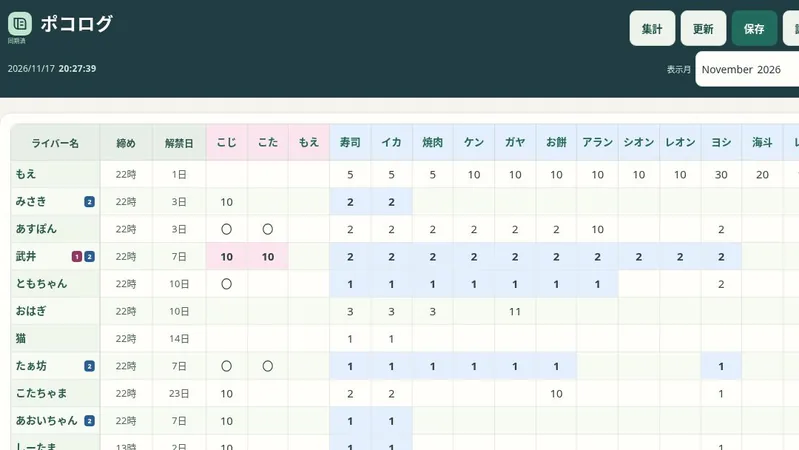
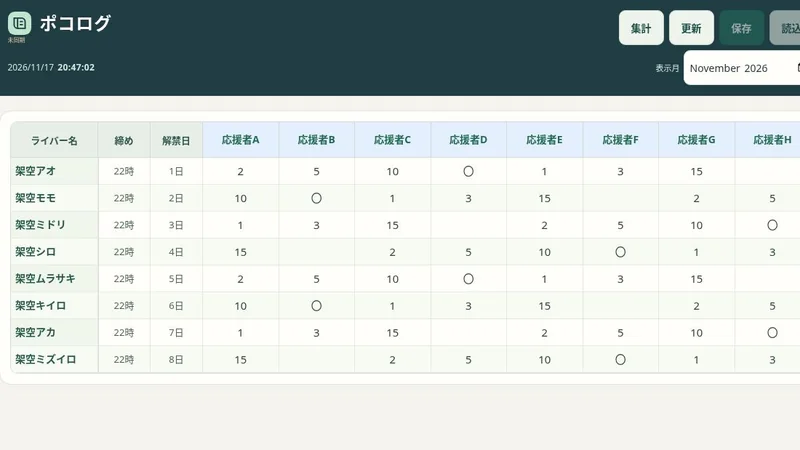
Use gameplay previews and fictional names in thumbnail data

diff --git a/index.html b/index.html
@@ -4,7 +4,7 @@
 <meta charset="utf-8"><meta name="viewport" content="width=device-width,initial-scale=1">
 <meta name="description" content="配信も、応援も、もっと楽しく。Yoshi2026sのPococha関連ツールをまとめました。">
 <meta name="theme-color" content="#fff9f3"><title>ポコツール広場 | Yoshi2026s</title>
-<link rel="icon" href="favicon.svg" type="image/svg+xml"><link rel="stylesheet" href="style.css?v=2"><script src="app.js?v=2" defer></script>
+<link rel="icon" href="favicon.svg" type="image/svg+xml"><link rel="stylesheet" href="style.css?v=3"><script src="app.js?v=3" defer></script>
 </head>
 <body>
 <a class="skip" href="#tools">ツール一覧へ</a>
@@ -18,6 +18,6 @@
 <div class="toolbar"><div class="filters" role="group" aria-label="カテゴリで絞り込み"><button type="button" class="filter active" aria-pressed="true" data-category="すべて">すべて</button><button type="button" class="filter" aria-pressed="false" data-category="配信・応援">配信・応援</button><button type="button" class="filter" aria-pressed="false" data-category="調べる">調べる</button><button type="button" class="filter" aria-pressed="false" data-category="遊ぶ">遊ぶ</button></div><label class="search"><span aria-hidden="true">⌕</span><input id="search" type="search" aria-label="ツールを検索" placeholder="ツールを検索"></label></div>
 <p id="status" class="status" role="status">ツールを読み込んでいます…</p><div id="grid" class="grid"></div><button id="retry" class="secondary" hidden>もう一度読み込む</button><noscript><p>ツール一覧の表示にはJavaScriptを有効にしてください。</p></noscript>
 </section>
-<aside class="note"><span aria-hidden="true">♡</span><div><strong>あなたの配信ライフを、ちょっと豊かに。</strong><p>画像は各ツールの画面の一部です。カードをタップするとツールが開きます。</p></div></aside>
+<aside class="note"><span aria-hidden="true">♡</span><div><strong>あなたの配信ライフを、ちょっと豊かに。</strong><p>画像は画面の一部です。名前・記録を含む画像には架空のデモデータを使用しています。</p></div></aside>
 </main><footer class="wrap footer"><p>© Yoshi2026s · ポコツール広場</p><p>Pococha非公式のファン制作ツール集です。</p><a href="https://github.com/Yoshi2026s/pococha-tools" target="_blank" rel="noopener noreferrer">GitHub ↗</a></footer>
 </body></html>

diff --git a/app.js b/app.js
@@ -19,12 +19,16 @@ function render() {
     card.href = tool.url; card.target = '_blank'; card.rel = 'noopener noreferrer';
     card.setAttribute('aria-label', `${tool.icon} ${tool.name}（新しいタブで開く）`);
     const preview = document.createElement('div'); preview.className = 'card-preview';
-    if (typeof tool.thumbnail === 'string' && /^assets\/thumbnails\/[a-z]+\.webp$/.test(tool.thumbnail)) {
+    if (typeof tool.thumbnail === 'string' && /^assets\/thumbnails\/[a-z]+(?:-demo)?\.webp$/.test(tool.thumbnail)) {
       const image = document.createElement('img');
-      image.src = tool.thumbnail; image.alt = `${tool.name}の画面の一部`;
+      image.src = tool.thumbnail; image.alt = tool.thumbnailDemo ? `${tool.name}のデモ画面（名前は架空）` : `${tool.name}の画面の一部`;
       image.width = 800; image.height = 450; image.loading = grid.children.length === 0 ? 'eager' : 'lazy'; image.decoding = 'async';
       image.addEventListener('error', () => {image.hidden = true; preview.classList.add('preview-unavailable');});
       preview.append(image);
+      if (tool.thumbnailDemo === true) {
+        const note = document.createElement('span'); note.className = 'preview-note';
+        note.textContent = '架空名のデモ画面'; preview.append(note);
+      }
     }
     const content = document.createElement('div'); content.className = 'card-content';
     const top = document.createElement('div'); top.className = 'card-top';

diff --git a/style.css b/style.css
@@ -24,3 +24,6 @@
 }
 @media(prefers-reduced-motion:reduce){.card-preview img{transition:none}.card:hover .card-preview img{transform:none}}
 @media(max-width:580px){.hero{padding:5px 0 18px}.hero .eyebrow,.hero .primary{display:none}.hero h1{font-size:28px;line-height:1.35;margin-bottom:9px}.intro{font-size:12px;line-height:1.8;margin:0}}
+
+.preview-note{position:absolute;right:8px;bottom:8px;background:#fffef0f2;color:#443a35;padding:3px 8px;border:1px solid #e7d9cc;border-radius:6px;font-size:10px;font-weight:700;line-height:1.6;box-shadow:0 1px 5px #0001}
+@media(max-width:580px){.preview-note{font-size:11px}}

diff --git a/README.md b/README.md
@@ -53,3 +53,9 @@ Pococha非公式のファン制作ツール集です。
 各カードに実際の公開ツール画面の一部を表示します。画像は `assets/thumbnails/` のWebPで、撮影時の静止画です。表示中の実績や日時をリアルタイムに示すものではありません。差し替え時は画像ファイルとtools.jsonのthumbnailを更新します。検索・管理者による掲載状態の切り替えでも画像を含むカード全体が対象です。
 
 スマートフォンは1列、横幅に合わせた16:9画像、説明14px、検索欄16px、44px以上の操作領域を使います。上部の装飾は非表示にしてツール一覧への移動を短くしています。画像は軽量なWebPとし、2件目以降は遅延読み込みします。
+
+### プライバシーに配慮した撮影
+
+ゲーム2件はタイトルではなく、ローカルの実ゲームを新規プレイして撮影した画面です。主人公・ヒロイン・プレイヤー・CPUは架空名で設定しています。ポコログは同じ実UIに架空の配信者名・応援者名と合成サンプル数値を入れて撮影しています。元ツールの共有データは読み書きしていません。
+
+該当カードには「架空名のデモ画面」と表示します。個人名のないメーター・解答・図鑑の画像も目視確認しています。撮影用のローカルソースはこの公開リポジトリには含めません。画像差し替え時は新しいファイル名も使い、閲覧者が古い画像を継続表示しにくくしています。
